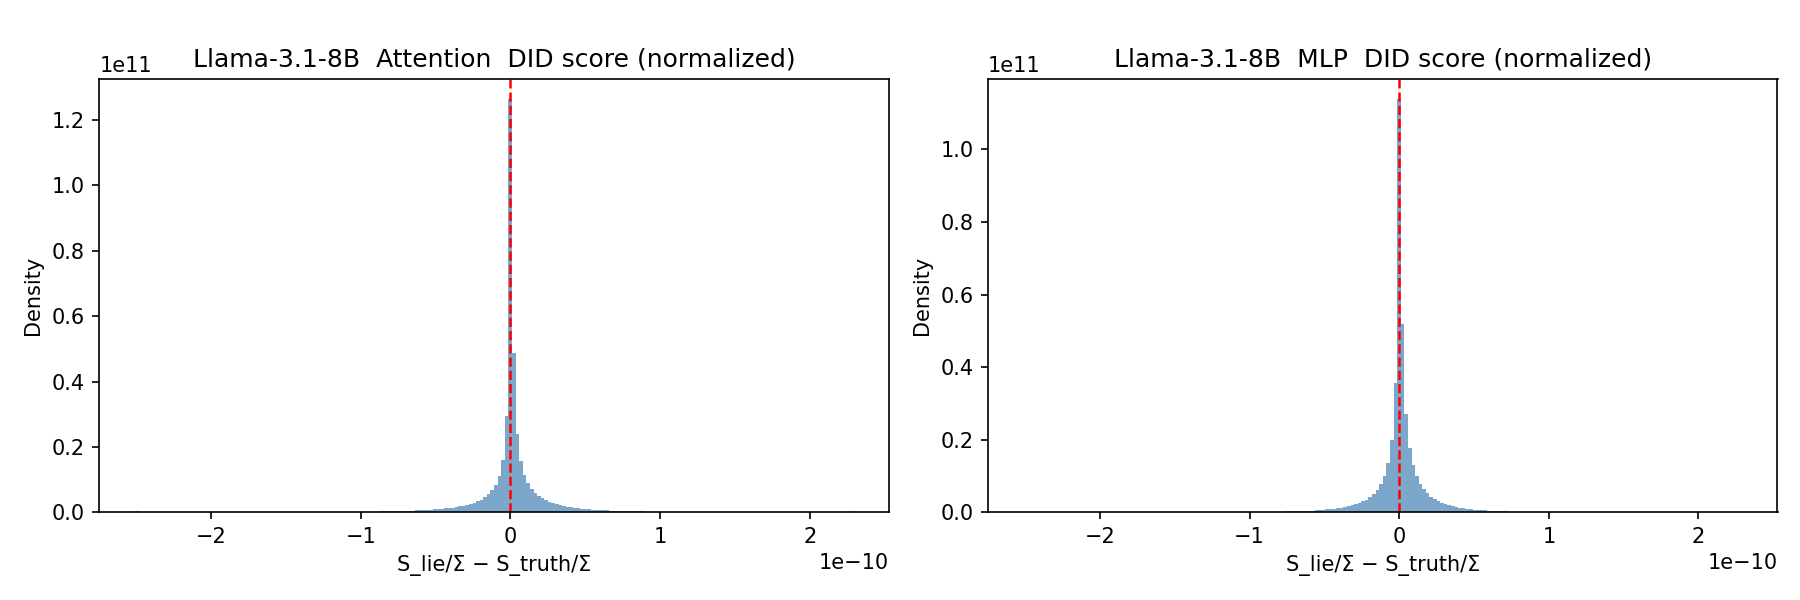
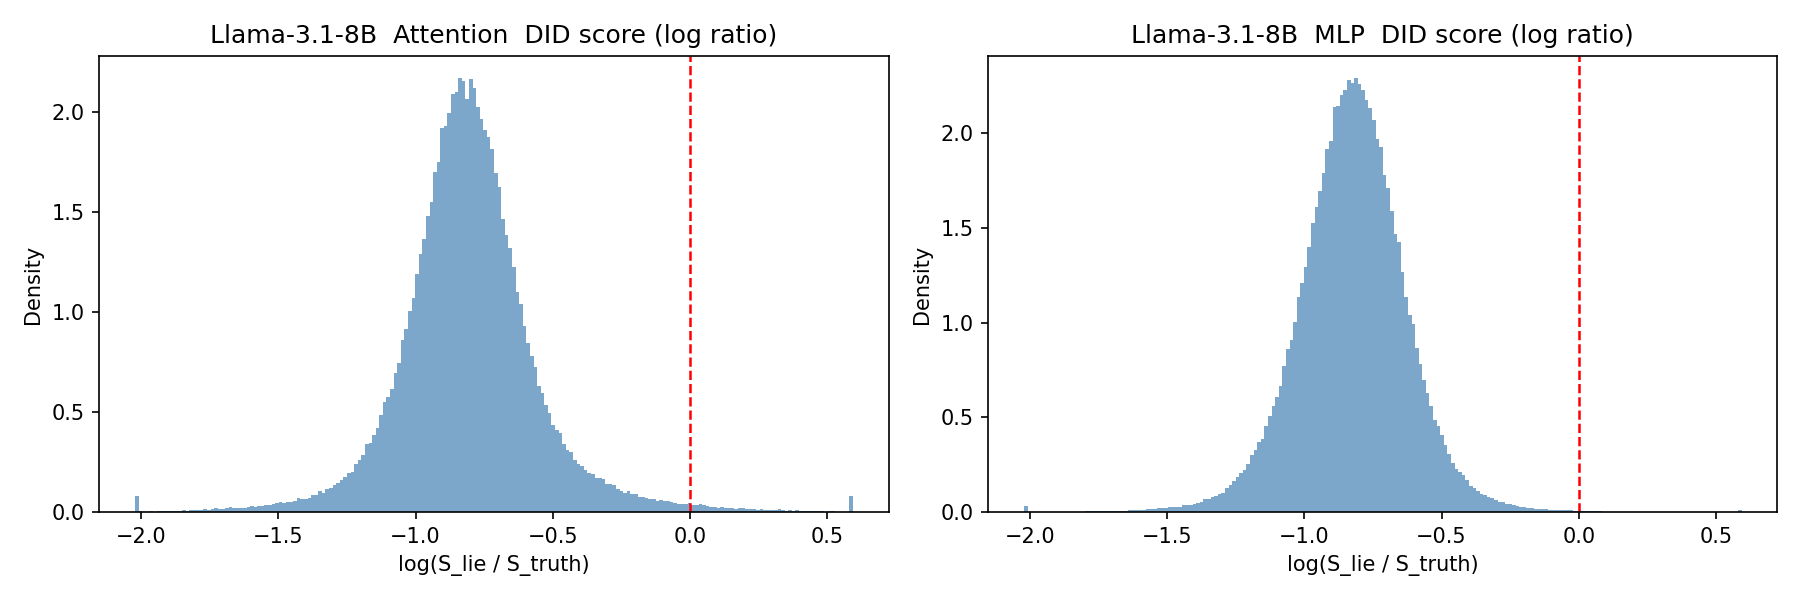
updating with the new percentile plots

diff --git a/src/lie_neuro.py b/src/lie_neuro.py
@@ -291,12 +291,11 @@ class LieNeuro:
             Mask = C_l \\ N_l  (lie-important AND NOT truth-important)
 
         mode="score_diff" (DID continuous score):
-            Score each weight by (S_lie - S_truth) directly.
-            Mask = top-ρ weights by (S_lie - S_truth).
-            When S_truth = S_truth_instruct, this is the DID importance
-            estimator: I_DID(w) = I(lie_instruct) - I(truth_instruct).
-            Removes the instruction-formatting confound in a single ranking
-            step without requiring a set intersection.
+            Score each weight by log(S_lie / S_truth) — a scale-invariant
+            ratio that removes depth-dependent activation magnitude effects.
+            Mask = top-ρ weights by log(S_lie / S_truth).
+            Weights with ratio > 1 are relatively more important for lying;
+            weights with ratio < 1 are relatively more important for truth.
 
         Stores result in `self._mask`.
         """
@@ -316,10 +315,13 @@ class LieNeuro:
         # percentile threshold, then apply it layer-by-layer.
         attn_thresh: Optional[float] = None
         mlp_thresh:  Optional[float] = None
+        _EPS = 1e-12
         if self.config.rho_by_type and mode == "score_diff":
             attn_diffs, mlp_diffs = [], []
             for n in self._layer_names:
-                d = (self._S_lie[n].float() - self._S_truth[n].float()).view(-1)
+                sl = self._S_lie[n].float()
+                st = self._S_truth[n].float()
+                d = ((sl + _EPS).log() - (st + _EPS).log()).view(-1)
                 if any(k in n for k in _ATTN_KW):
                     attn_diffs.append(d)
                 elif any(k in n for k in _MLP_KW):
@@ -357,8 +359,8 @@ class LieNeuro:
 
                 lie_specific = mask_lie & ~mask_truth  # C_l \ N_l
 
-            else:  # score_diff — DID continuous estimator
-                flat_diff = (s_lie - s_truth).view(-1)
+            else:  # score_diff — log-ratio DID estimator
+                flat_diff = ((s_lie + _EPS).log() - (s_truth + _EPS).log()).view(-1)
                 if self.config.rho_by_type:
                     if any(k in name for k in _ATTN_KW) and attn_thresh is not None:
                         lie_specific = flat_diff >= attn_thresh
